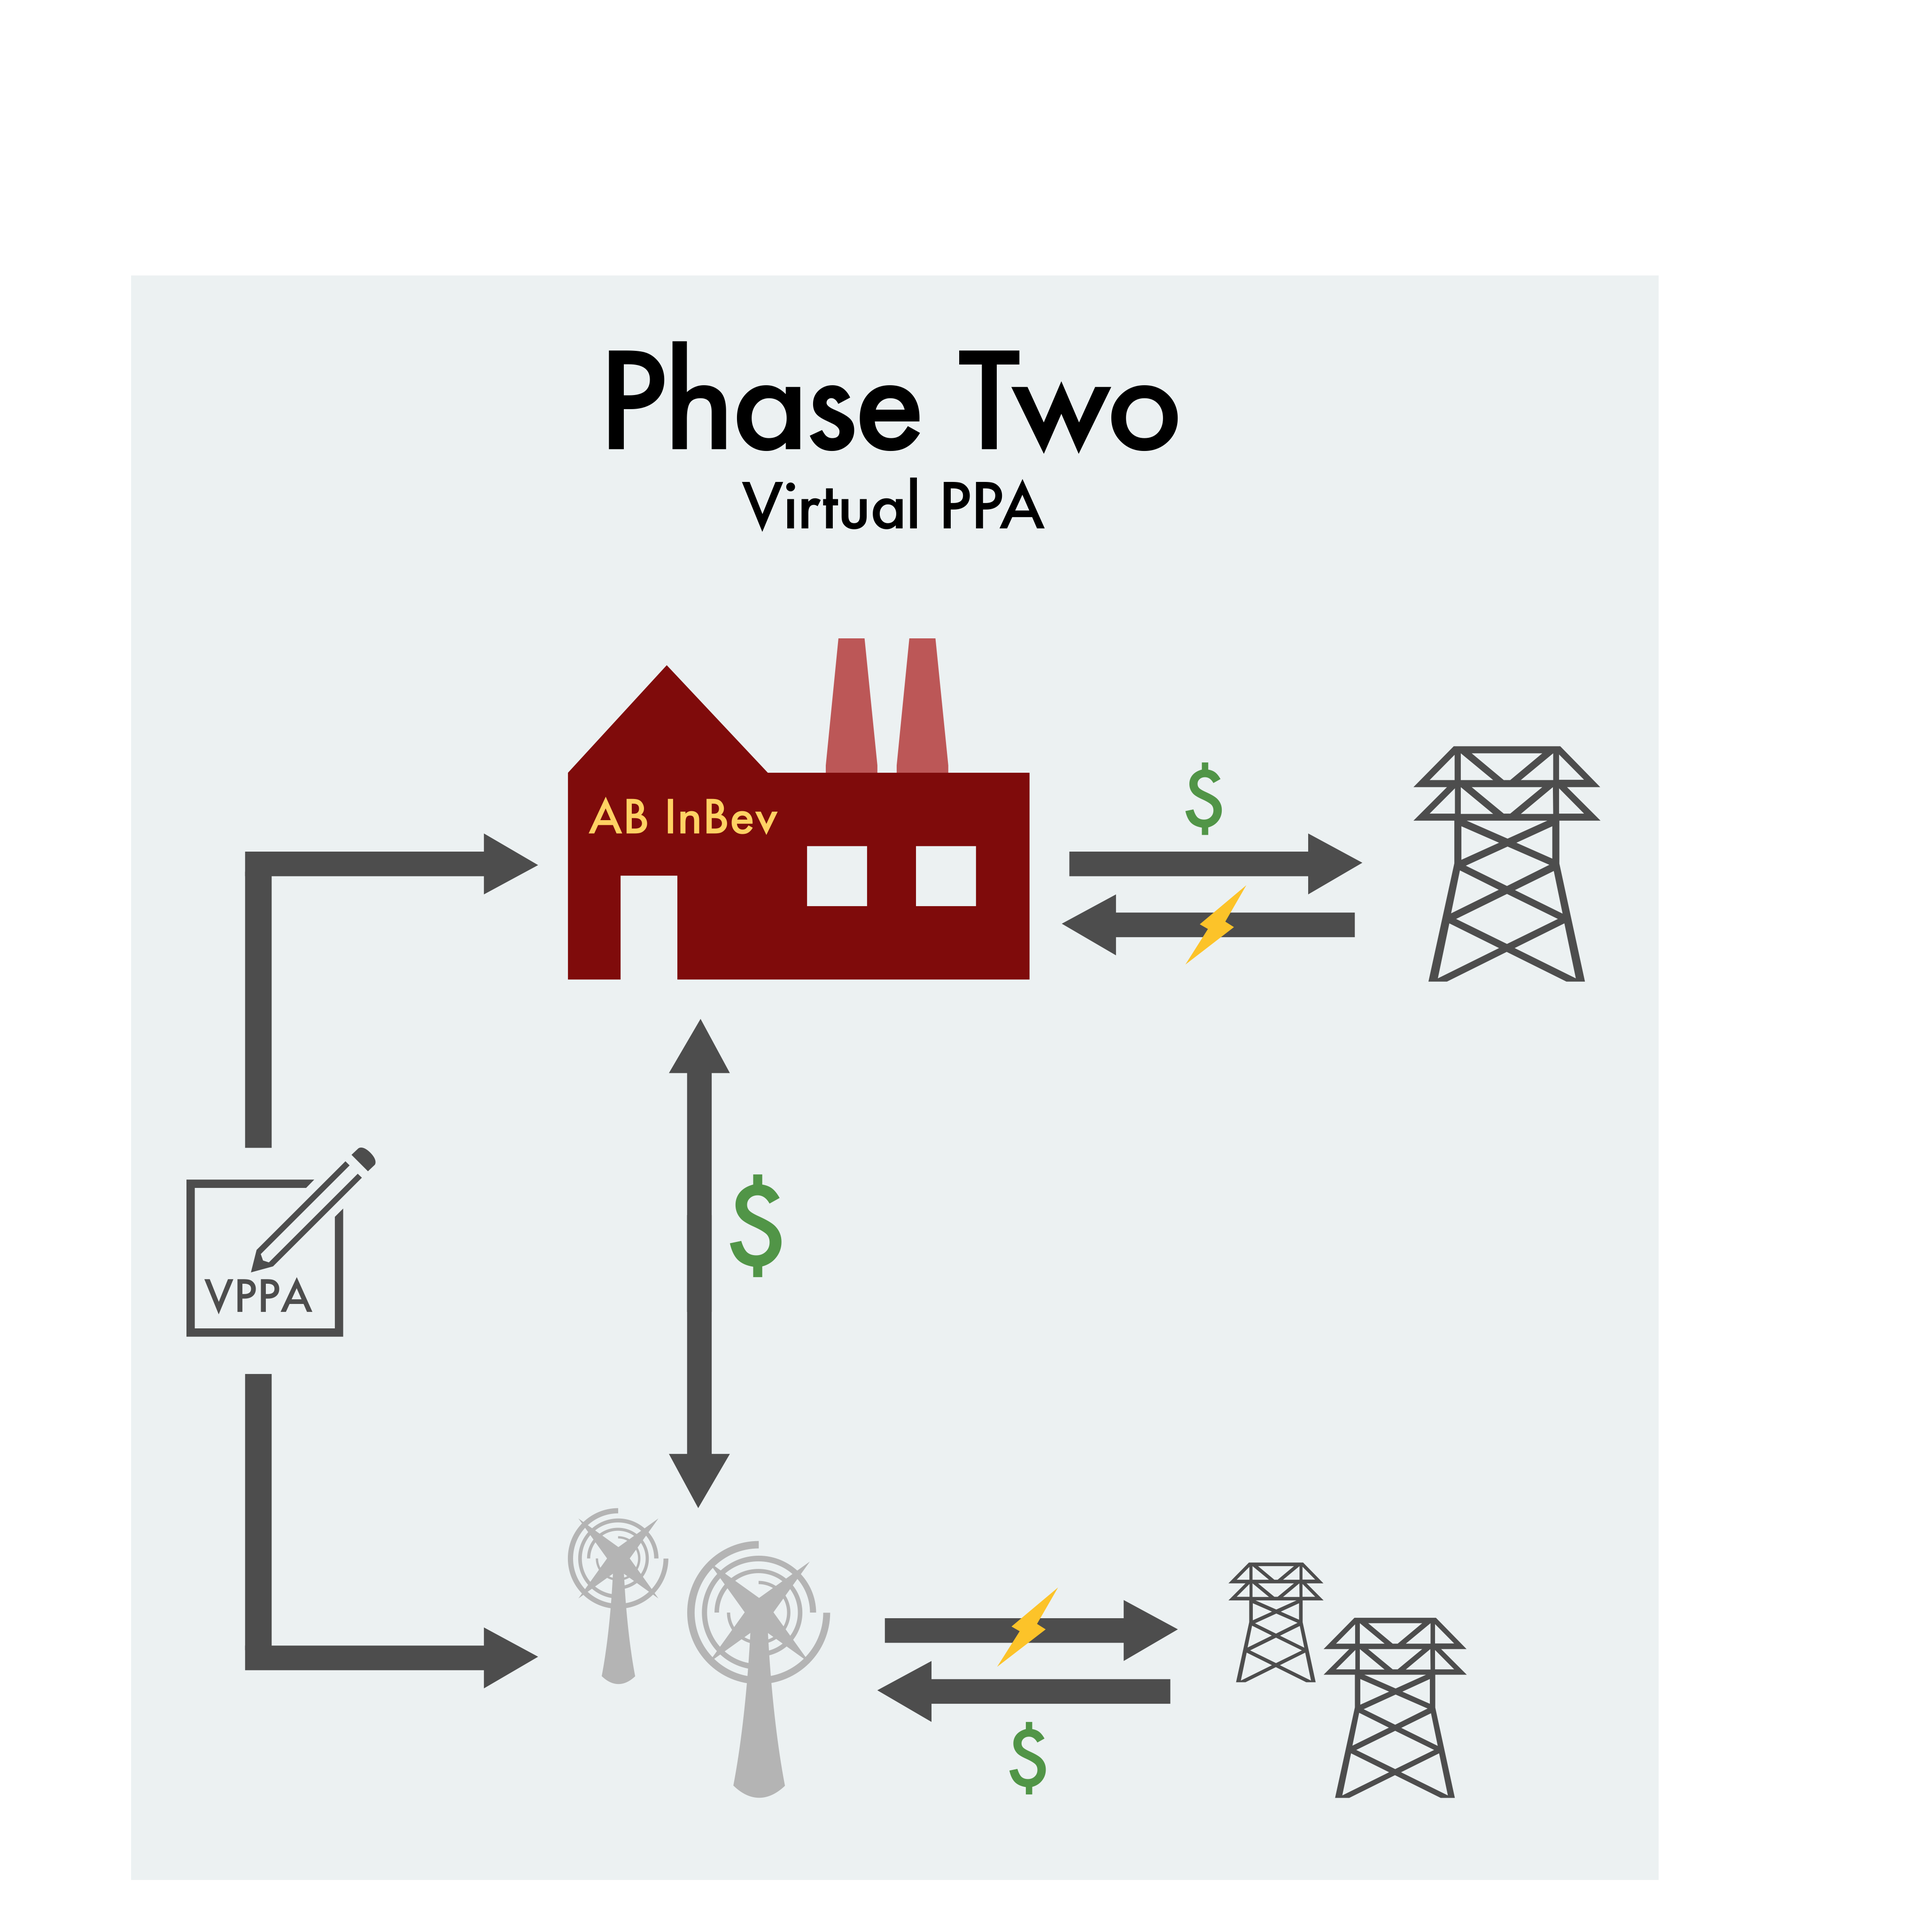
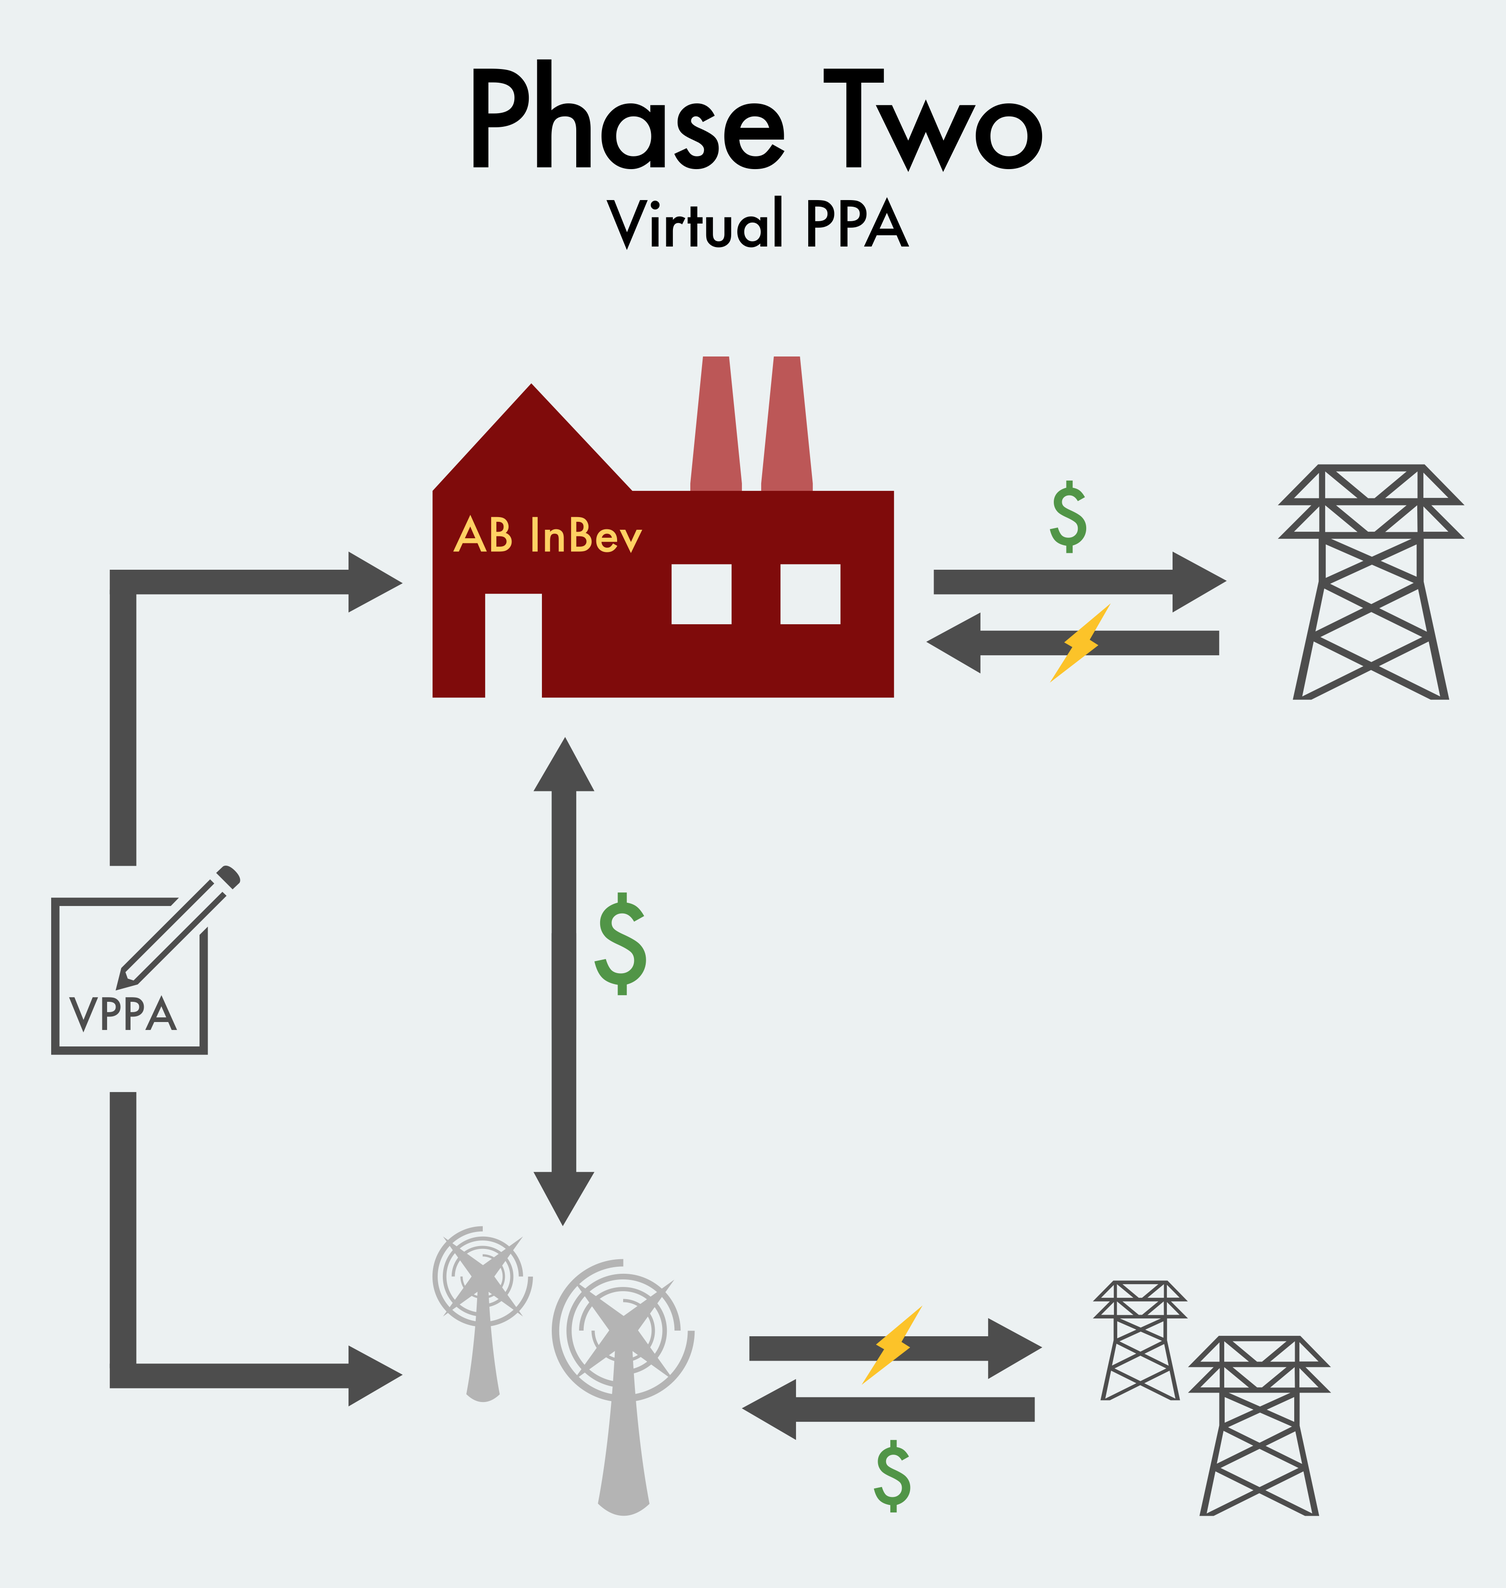
Another ABI Update

Changed region(s): [[0.0312, 0.0311, 0.9666, 0.9627], [0.3118, 0.8696, 0.343, 0.9006]]

diff --git a/content/portfolio/3w_AB_InBev.md b/content/portfolio/3w_AB_InBev.md
@@ -40,4 +40,4 @@ I also created graphics to show the different phases of the renewable energy pur
 [1]: /img/portfolio/ABI/AbInbev_logos.JPG
 [2]: /img/portfolio/ABI/AbInbev_chart.JPG
 [3]: /img/portfolio/ABI/AbInbev_nyc.JPG
-[4]: /img/porfolio/ABI/abinbev_timeline.JPG
+[4]: /img/porfolio/ABI/abinbev_timeline.PNG
